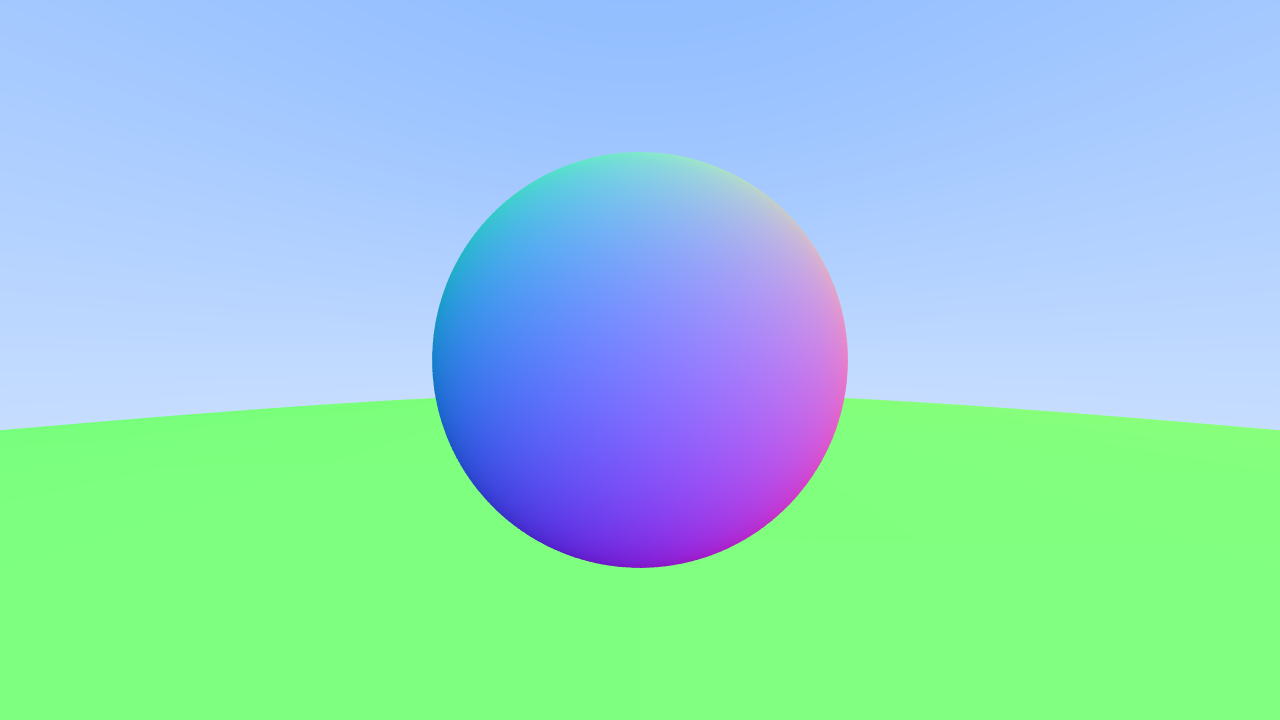
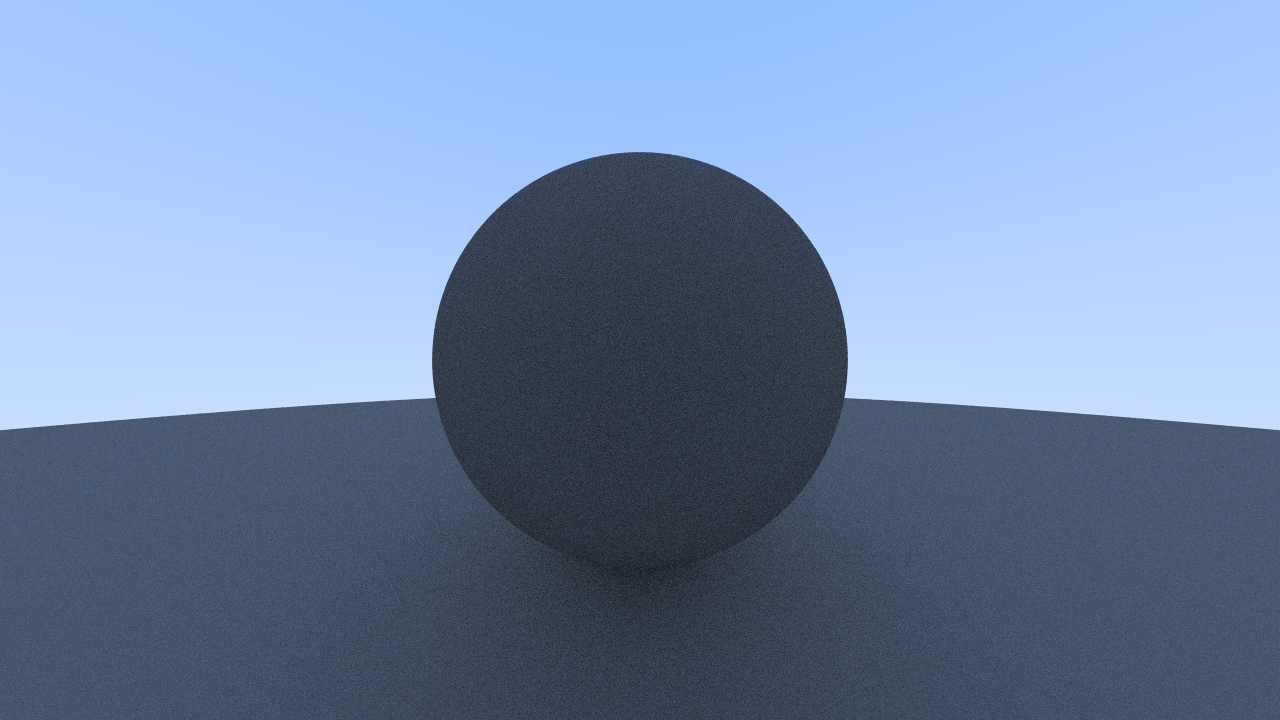
diffuse

diff --git a/src/lib.rs b/src/lib.rs
@@ -13,17 +13,24 @@ pub struct Settings {
     pub image_width: u32,
     pub image_height: u32,
     pub samples_per_pixel: u32,
+    pub max_depth: u32,
     pub viewport_width: f64,
     pub viewport_height: f64,
 }
 impl Settings {
-    pub fn new(image_width: u32, image_height: u32, samples_per_pixel: u32) -> Settings {
+    pub fn new(
+        image_width: u32,
+        image_height: u32,
+        samples_per_pixel: u32,
+        max_depth: u32,
+    ) -> Settings {
         let viewport_height = 2.0;
         let viewport_width = viewport_height * image_width as f64 / image_height as f64;
         Settings {
             image_width,
             image_height,
             samples_per_pixel,
+            max_depth,
             viewport_width,
             viewport_height,
         }
@@ -65,7 +72,7 @@ impl Scene {
                         + (i as f64 + offset_x) * pixel_delta_u
                         + (j as f64 + offset_y) * pixel_delta_v;
                     let ray = R::connect(self.camera.pos, pixel);
-                    pixel_color += ray.color(&self.objects)
+                    pixel_color += ray.color(&self.objects, settings.max_depth)
                 }
                 pixel_color /= settings.samples_per_pixel as f64;
                 imgbuf.put_pixel(i, j, pixel_color.into());
@@ -77,12 +84,6 @@ impl Scene {
 #[derive(Debug)]
 pub struct Intvl(f64, f64);
 impl Intvl {
-    fn len(&self) -> f64 {
-        self.1 - self.0
-    }
-    fn contain(&self, x: f64) -> bool {
-        self.0 <= x && x <= self.1
-    }
     fn surround(&self, x: f64) -> bool {
         self.0 < x && x < self.1
     }

diff --git a/src/r.rs b/src/r.rs
@@ -15,19 +15,27 @@ impl R {
     pub fn at(&self, t: f64) -> V {
         self.q + t * self.d
     }
-    pub fn color(&self, objects: &Vec<Box<dyn Object>>) -> V {
+    pub fn color(&self, objects: &Vec<Box<dyn Object>>, remaining_depth: u32) -> V {
+        if remaining_depth <= 0 {
+            return V(0.0, 0.0, 0.0);
+        }
         let mut t_closest = INFINITY;
         let mut hit_record = HitRecord::default();
         let mut is_hit = false;
         for object in objects {
-            if let Some(hit_record_tmp) = object.hit(self, Intvl(0.0, t_closest)) {
+            if let Some(hit_record_tmp) = object.hit(self, Intvl(0.001, t_closest)) {
                 t_closest = hit_record_tmp.t;
                 hit_record = hit_record_tmp;
                 is_hit = true;
             }
         }
         if is_hit {
-            return 0.5 * (hit_record.n + V(1.0, 1.0, 1.0));
+            return 0.5
+                * R {
+                    q: hit_record.p,
+                    d: V::random_on_hemisphere(hit_record.n),
+                }
+                .color(objects, remaining_depth - 1);
         }
         let t = 0.5 * (self.d.unit().y() + 1.0);
         R::connect(V(1.0, 1.0, 1.0), V(0.5, 0.7, 1.0)).at(t)

diff --git a/src/v.rs b/src/v.rs
@@ -1,6 +1,10 @@
-use std::ops::{Add, AddAssign, Div, DivAssign, Mul, MulAssign, Sub, SubAssign};
+use std::{
+    f64::consts::PI,
+    ops::{Add, AddAssign, Div, DivAssign, Mul, MulAssign, Neg, Sub, SubAssign},
+};
 
 use image::Rgb;
+use rand::{thread_rng, Rng};
 
 #[derive(Debug, Clone, Copy, Default)]
 pub struct V(pub f64, pub f64, pub f64);
@@ -71,6 +75,13 @@ impl DivAssign<f64> for V {
         *self = V(x / rhs, y / rhs, z / rhs);
     }
 }
+impl Neg for V {
+    type Output = V;
+    fn neg(self) -> V {
+        let V(x, y, z) = self;
+        V(-x, -y, -z)
+    }
+}
 
 impl V {
     pub fn x(&self) -> f64 {
@@ -102,6 +113,21 @@ impl V {
     }
     pub fn unit(&self) -> V {
         *self / self.norm()
+    }
+    pub fn random_on_hemisphere(n: V) -> V {
+        let mut rng = thread_rng();
+        let theta = rng.gen_range(0.0..=PI);
+        let phi = rng.gen_range(0.0..2.0 * PI);
+        let v = V(
+            theta.sin() * phi.cos(),
+            theta.sin() * phi.sin(),
+            theta.cos(),
+        );
+        if v.dot(n) > 0.0 {
+            v
+        } else {
+            -v
+        }
     }
 }
 

diff --git a/src/main.rs b/src/main.rs
@@ -1,6 +1,6 @@
 use ray::{obj::Sphere, Camera, Scene, Settings, V};
 fn main() {
-    let settings = Settings::new(1280, 720, 30);
+    let settings = Settings::new(1280, 720, 32, 8);
     let mut imgbuf = settings.build();
     let scene = Scene {
         objects: vec![
